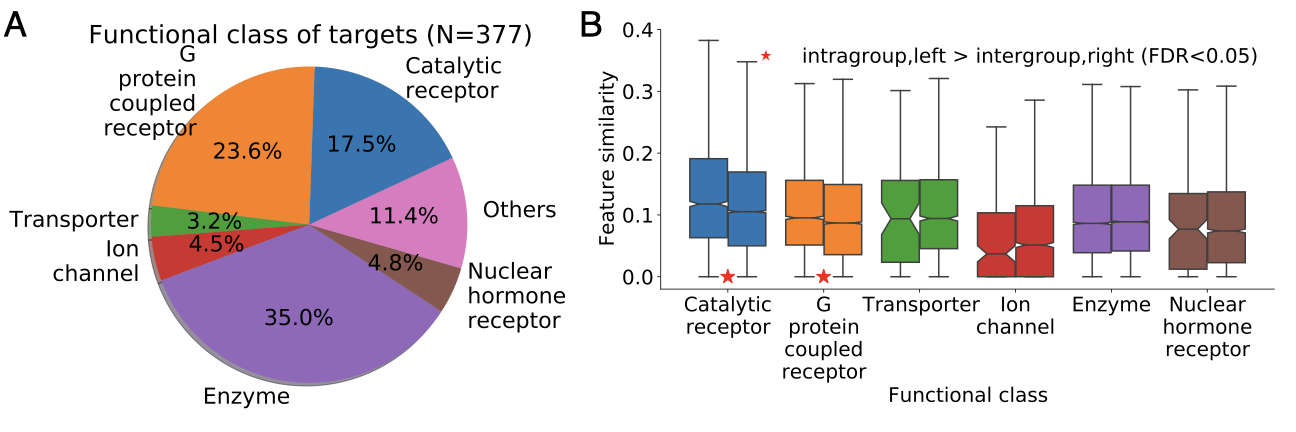
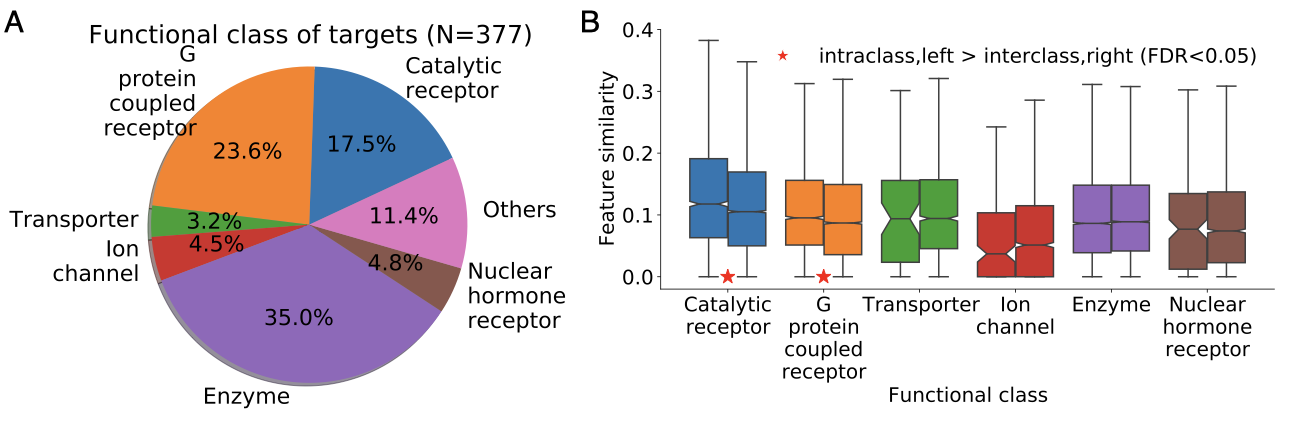
Change 'group' to 'class' in class comparison boxplot

Changed region(s): [[0.5864, 0.0903, 0.9877, 0.1505], [0.4321, 0.0301, 0.463, 0.0903], [0.0, 0.0301, 0.0309, 0.0903]]

diff --git a/src/ttox_plot.py b/src/ttox_plot.py
@@ -444,7 +444,7 @@ def visualize_group_feature_similarity_comparison(sim_df, sim_pv, group_col, gro
 	plt.xlabel(group_type)
 	plt.ylabel('Feature similarity')
 	# add legend showing the significance threshold of markers  
-	legend_elements = [Line2D([0], [0], marker = '*', color = 'w', label = 'intragroup,left > intergroup,right (FDR<0.05)', markerfacecolor = 'r', markersize = 15)]
+	legend_elements = [Line2D([0], [0], marker = '*', color = 'w', label = 'intraclass,left > interclass,right (FDR<0.05)', markerfacecolor = 'r', markersize = 15)]
 	plt.legend(handles = legend_elements, loc = 'upper right', frameon = False)
 	
 	## 4. Save boxplot
